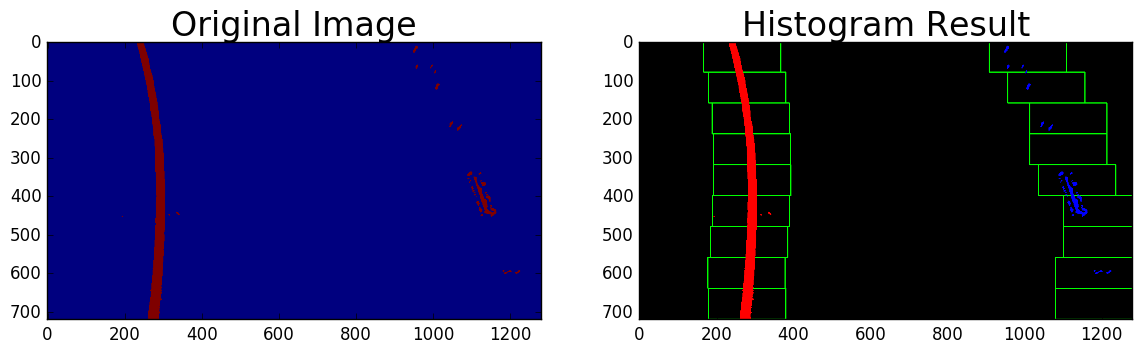
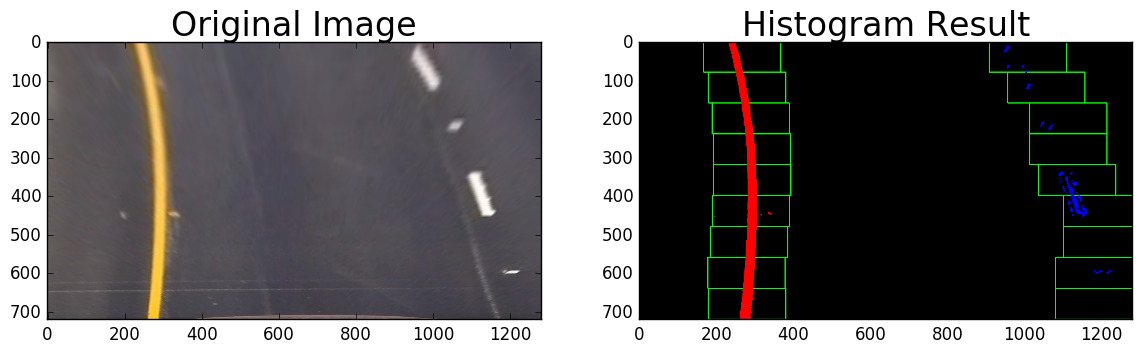
updated help output and added images

diff --git a/poly_fit.py b/poly_fit.py
@@ -153,7 +153,7 @@ def get_binary_warped(image_file):
     img, M, Minv = transform.apply_transform(image)
 
     processed_image = imaging.process_imaging(img)
-    return image, processed_image
+    return img, processed_image
 
 
 def show_draw_lines(image_file, visualize=False, save_example=False):
@@ -162,7 +162,7 @@ def show_draw_lines(image_file, visualize=False, save_example=False):
     result, left_lane_pts, right_lane_pts = lane_lines(binary_warped, left_fit, right_fit)
     # Plot the result
     f, (ax1, ax2) = plt.subplots(1, 2, figsize=(14, 7))
-    ax1.imshow(binary_warped)
+    ax1.imshow(image)
     ax1.set_title("Original Image", fontsize=24)
     ax2.imshow(result, cmap="gray")
     ax2.set_title("Lane Lines Result", fontsize=24)
@@ -185,7 +185,7 @@ def show_histogram(image_file, visualize=False, save_example=False):
 
     # Plot the result
     f, (ax1, ax2) = plt.subplots(1, 2, figsize=(14, 7))
-    ax1.imshow(binary_warped)
+    ax1.imshow(image)
     ax1.set_title("Original Image", fontsize=24)
     ax2.imshow(result, cmap="gray")
     ax2.set_title("Histogram Result", fontsize=24)

diff --git a/README.md b/README.md
@@ -120,17 +120,23 @@ The code for this step is contained in `poly_fit.py`
 ```
 usage: poly_fit.py [-h] [-show] [-save]
 
-Polyfit for Udacity Advanced Lane Finding project
+Histogram and lane line fitting for Udacity Advanced Lane Finding project
 
 optional arguments:
   -h, --help  show this help message and exit
-  -show       Visualize polyfit image
-  -save       Save polyfit image
+  -show       Visualize histogram and lane line images
+  -save       Save histogram and lane line image
 ```
 
-###5) Having identified the lane lines, has the radius of curvature of the road been estimated?
-And the position of the vehicle with respect to center in the lane?
+![](output_images/histogram_test2.png)
+##### Example histogram slicing from warped undistorted image
 
+![](output_images/lane_lines_test2.png)
+##### Example lane line painting from warped undistored image
+###5) Having identified the lane lines, has the radius of curvature of the road been estimated and the position of the vehicle with respect to center in the lane?
+
+![](output_images/pipeline_test2.png)
+##### Example pipeline image with radius of curvature and vehicle position
 ## Pipeline (video)
 
 ###1) Does the pipeline established with the test images work to process the video?
